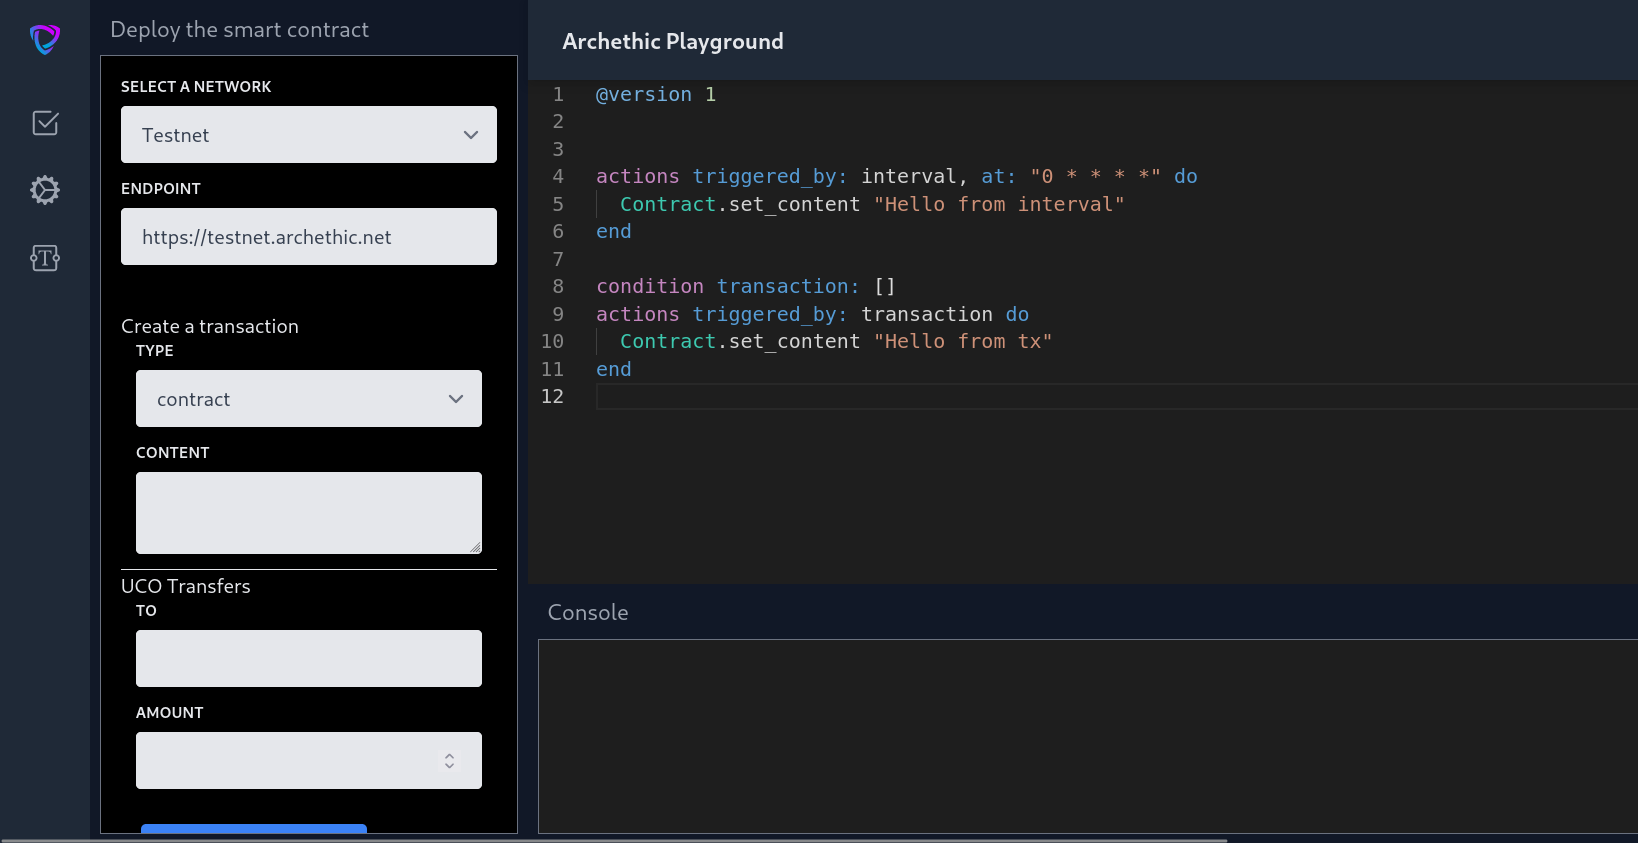
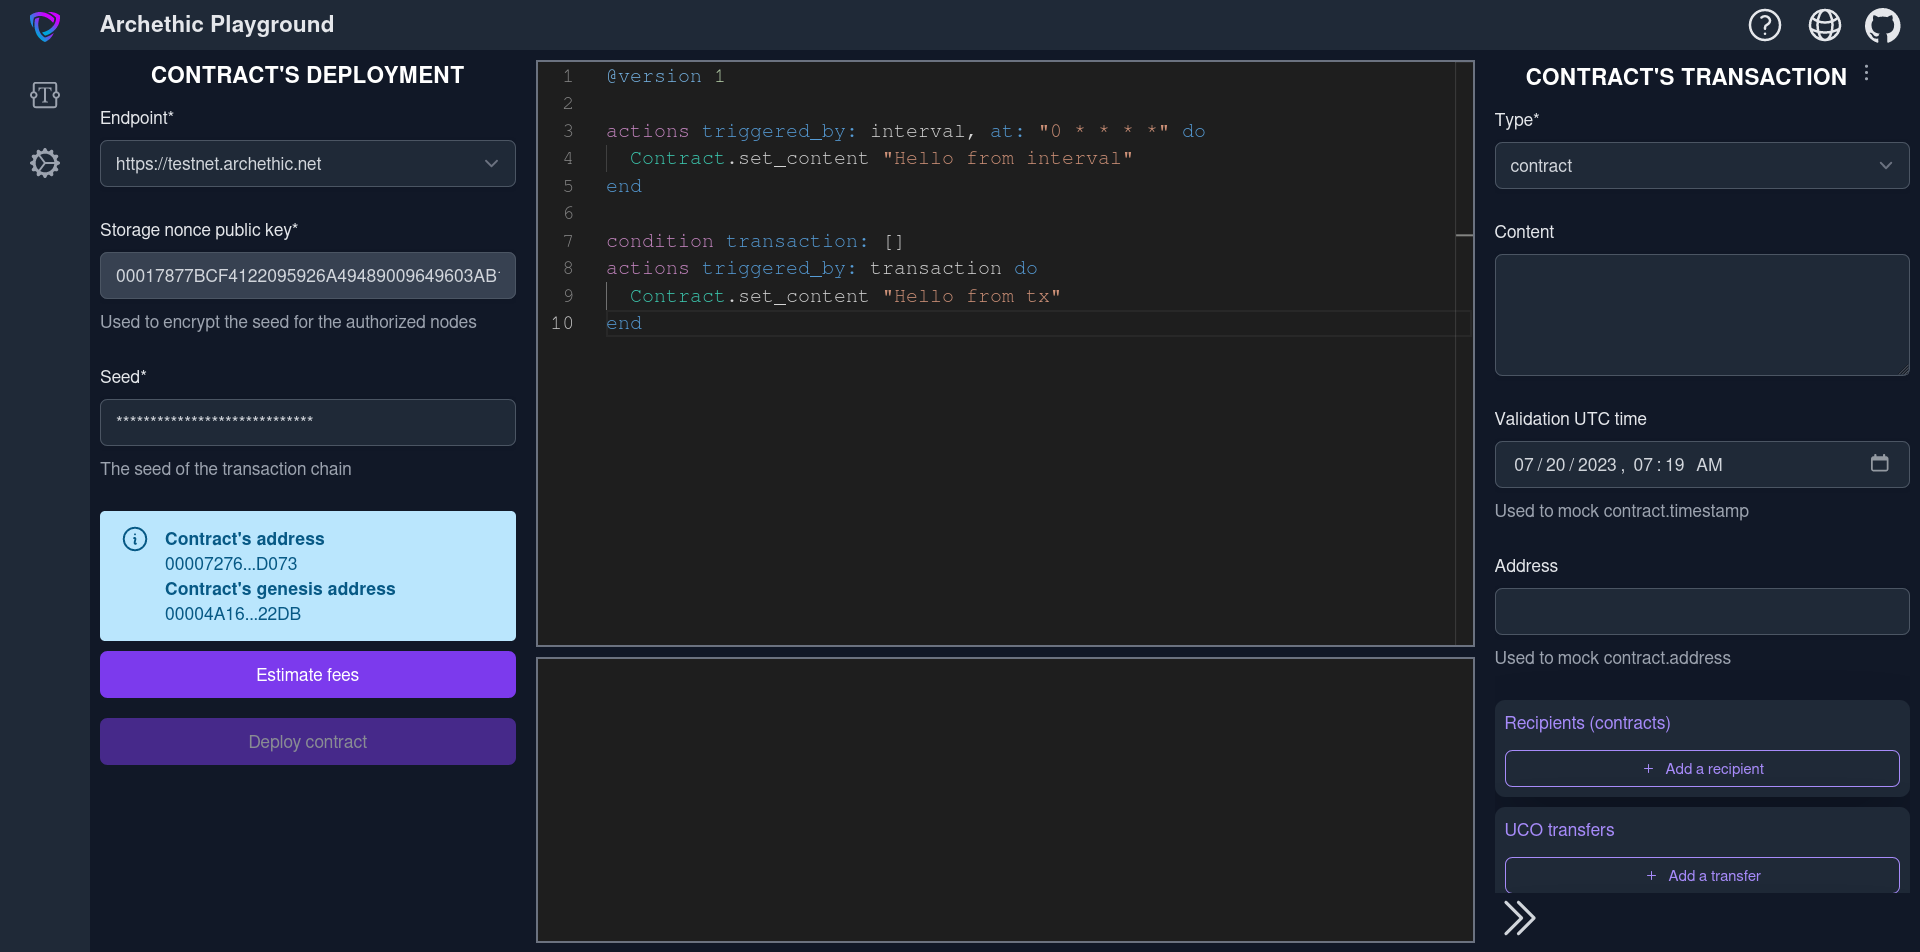
update doc to latest playground

diff --git a/docs/build/smart-contracts/playground/deploy.md b/docs/build/smart-contracts/playground/deploy.md
@@ -18,30 +18,20 @@ The deploy panel opens on the left hand side:
 
 ![the deploy panel](/img/playground/playground_panel_deploy.png)
 
-The panel is a big form composed of two forms: 
 
-1. the [transaction form](/build/smart-contracts/playground/transaction-form) which is used to define the transaction that holds the contract.
-1. the deploy form which specifies which network and keychain to use.
+1. Choose the network where you want to deploy the Smart Contract. This will always be "https://testnet.archethic.net" for now.
+1. You'll see that we automatically retrieve the `storage nonce public key` that is used to give ownership of the contract to the authorized nodes (miners).
+1. Then specify a seed of a transaction chain that will host the contract. 
 
-## The transaction form
+While modifying the seed, you can see that the future contract's address is displayed. The contract's genesis address is also displayed. 
 
-You may want to define its `type` to "contract" (not mandatory), you might want to define an initial `content` or some `ownerships`. 
+:::info Genesis address
+The genesis address is the one you'll use in the [faucet](https://testnet.archethic.net/faucet) to transfer funds.
+:::
 
-The only thing **required** is to reveal the seed to the nodes in the `secrets`. 
-This is because the nodes must know the seed of the contract's transaction chain to be able to create new transactions.
-To achieve this, write the seed in the `secret` field and click on the `Load storage nonce public key` button and then click on the `Create secret` button.
+Now you may click on `estimate fees` and then `deploy`. Hopefully you'll see a success message!
+You may follow the link to view the transaction on the explorer.
 
-![the ownership containing the seed is displayed](/img/playground/playground_sc_ownership.png)
-
-
-## The deploy form
-
-1. Choose the network where you want to deploy the Smart Contract. Use "local" if you run a node on your computer, "testnet" otherwise. 
-1. Then at the bottom specify the seed of a keychain with some funds to pay the fees.
-
-- To generate an address from a seed, use the [address generator](/participate/cli/#generate-address) from the CLI.
-- To get funds, use the [faucet](https://testnet.archethic.net/faucet).
-
-Before clicking on the `Deploy` button, you may click on the `Estimate fees` button.
-A message should inform you of the status of the deployment. If successful, you'll get a link to the transaction on the [explorer](https://testnet.archethic.net/explorer).
-
+:::success That's it!
+Congratulations on your contract's deployment.
+:::

diff --git a/docs/build/smart-contracts/playground/build.md b/docs/build/smart-contracts/playground/build.md
@@ -40,9 +40,6 @@ The trigger panel opens on the left hand side:
 ![the trigger panel](/img/playground/playground_trigger_panel.png)
 
 You are now able to select which trigger you want to test, for this contract a selector of two triggers is displayed (as per the contract): 
-
-![the trigger selector](/img/playground/playground_trigger_selector.png)
-
 You'll also see the [mock form](/build/smart-contracts/playground/mock-form) that is used to mock the functions that does side-effect. 
 
 ### Test trigger 'interval' 
@@ -51,7 +48,14 @@ An interval trigger is a contract that triggers automatically at a specific inte
 
 ![the resulting transaction is displayed in the console](/img/playground/playground_build_step2a.png)
 
-What you see above is the JSON representation of the output transaction payload. Here I can control that my contract behaved as I expected. The `content` is set to what I expected, the `code` did not change and the other fields are empty.
+What you see above is the JSON representation of the output transaction payload. Here we can control that my contract behaved as expected. The `content` is set to "Hello from interval" as expected.
+
+You probably saw the `trigger and update contract's transaction` button. Let's click on it to see the difference: 
+
+![the resulting transaction is displayed in the contract' transaction panel](/img/playground/playground_build_step2e.png)
+
+The difference is not easy to spot, but the transaction of the contract (the right panel) has been updated. This is useful to test a sequence of triggers.
+
 
 ### Test trigger 'transaction'
 
@@ -63,7 +67,7 @@ This form is composed of two forms:
 1. the [transaction form](/build/smart-contracts/playground/transaction-form) 
 1. the [mock form](/build/smart-contracts/playground/mock-form) 
 
-Which results in a very big form but we are not going to cover it here. Click on the links if you are interested. For this contract, we'll just submit the form without changing anything. 
+Which results in a very big form that are covered in the links above. For this contract, we'll just submit the form without changing anything. 
 
 ![the resulting transaction is displayed in the console](/img/playground/playground_build_step2c.png)
 

diff --git a/docs/build/smart-contracts/playground/transaction-form.md b/docs/build/smart-contracts/playground/transaction-form.md
@@ -26,11 +26,11 @@ This is the text field for the code of the Smart Contract. It may be hidden beca
 The content is a text field. It often depends on the transaction's type.
 For Smart Contracts, we use it to store the aggregated state. This might change in the very near future (see [AEIP-14](https://github.com/archethic-foundation/aeip/blob/main/AEIP-14.md)).
 
-### validation timestamp (not available in deploy panel)
+### validation timestamp (not used in deployment)
 
 It represents the time at which the transaction was validated. This is only used to mock a value for your tests.
 
-### address (not available in deploy panel)
+### address (not used in deployment)
 
 It's the transaction's address. It must be a 68 characters hexadecimal. This is only used to mock a value for your tests.
 
@@ -66,8 +66,10 @@ Every secret is defined by 2 fields:
 - `secret`: required - the **non-encrypted** secret  (the SDK will encrypt with a key that is then encrypted for every authorized_public_keys below)
 - `authorized_public_keys`: required - the list of public keys allowed to decrypt the secret
 
-:::note
-As explained in the [Deploy](/build/smart-contracts/playground/deploy) page, one secret is required for the initial contract's transaction.
+:::note contract's ownership
+When deploying, the playground automatically creates a secret that is used to give the ability to execute the contract to all authorized nodes. 
+
+In raw terms, it encrypts the `seed` with the `storage nonce public key`.
 :::
 
 :::danger TODO

diff --git a/docs/build/smart-contracts/playground/mock-form.md b/docs/build/smart-contracts/playground/mock-form.md
@@ -26,16 +26,6 @@ A function can be mocked multiple times, for example to mock multiple different 
 
 Time.now/0 can be mocked to simulate a future execution of the contract. This one is actually optional, the playground will use current time if it is not set.
 
-All you need to do is fill the expected output (seconds since epoch):
-
-![mocking the Time.now/0](/img/playground/playground_form_mock_time_now.png)
-
-Then click on the `Add` button:
-
-![Time.now/0 is mocked](/img/playground/playground_form_mock_time_now2.png)
-
-You may now test a Smart Contract that uses `Time.now/0`: 
-
 ```elixir
 @version 1
 actions triggered_by: interval, at: "* * * * *" do 
@@ -43,7 +33,13 @@ actions triggered_by: interval, at: "* * * * *" do
 end
 ```
 
-![a contract that used Time.now/0 is tested](/img/playground/playground_form_mock_time_now_example.png)
+All you need to do is fill the expected output (seconds since epoch):
+
+![mocking the Time.now/0](/img/playground/playground_form_mock_time_now.png)
+
+Then click on the `Add` button, then `trigger` to test the Smart Contract:
+
+![Time.now/0 is mocked](/img/playground/playground_form_mock_time_now2.png)
 
 We can see via the console that the mock was called as expected.
 

diff --git a/docs/build/smart-contracts/language/actions.md b/docs/build/smart-contracts/language/actions.md
@@ -46,7 +46,7 @@ So you don't need to set the type, the code and the ownerships each time you gen
 
 ## Examples
 
-An ICO (Initial Coin Offering) contract:
+ICO (Initial Coin Offering)
 ```elixir 
 actions triggered_by: transaction do
     # Get the amount of UCO sent to this contract
@@ -62,18 +62,8 @@ actions triggered_by: transaction do
 end
 ```
 
-A naive voting system
+naive voting system
 ```elixir
- @version 1
-
- # naive voting system
- # initial content: {"x": 0, "y": 0}
-
- condition transaction: [
-   timestamp: Time.now() < 1700000000,
-   content: Regex.match?("^[X|Y]$")
- ]
-
  actions triggered_by: transaction do
 	 vote_for_x = Json.path_extract(contract.content, "$.x")
 	 vote_for_y = Json.path_extract(contract.content, "$.y")

diff --git a/docs/build/smart-contracts/playground/README.md b/docs/build/smart-contracts/playground/README.md
@@ -11,5 +11,5 @@ It is available here: https://playground.archethic.net/.
 - Follow the [Build](/build/smart-contracts/playground/build) menu to build a smart contracts with the playground.
 - Follow the [Deploy](/build/smart-contracts/playground/deploy) menu to deploy a smart contracts.
 
-![The Smart Contracts playground](/img/playground/playground_ico_contract.png)
+![The Smart Contracts playground](/img/playground/playground_hello_contract.png)
 
